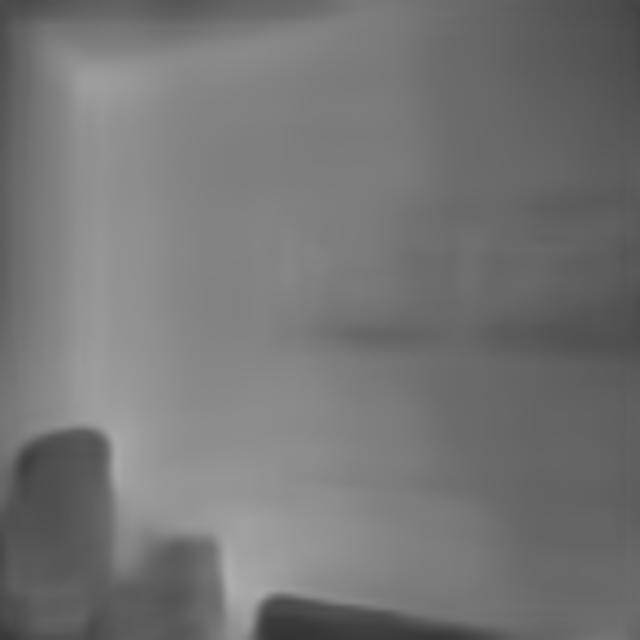
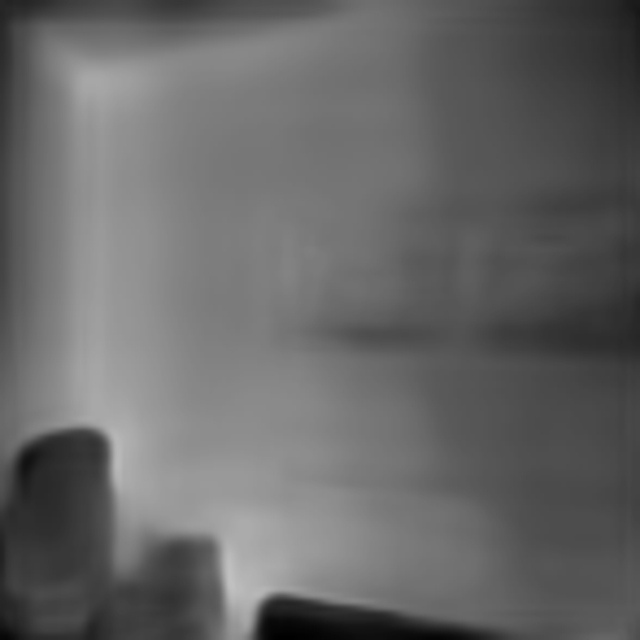
Removed linear sum coefficient from system. Cleanup of main run script. New results.

diff --git a/run.py b/run.py
@@ -43,59 +43,74 @@ if __name__ == "__main__":
     output = filename('output')
     outputmap = filename('outputmap')
 
-    fov_h = 90  # 60.0
+    # config values
+    run_depth_prediction = False
+    reconstruct_sphere = False
+    reconstruct_in = normalized
+    fov_h = 89.99  # 60.0
     fov = (90, 90)
     crop_size = 640
 
-    angles = [(0, 0), (0, 90), (0, 180), (0, 270), (90, 0), (-90, 0)]
+    angles = [(0, 0), (0, 90), (0, 180), (0, 270)]  # , (90, 0), (-90, 0)]
     # phi = vertical angle, theta = horizontal angle
     depth_values = []
+    img_size = 640
     for i, (phi, theta) in enumerate(angles):
-        print('Cropping at %s, %s' % (theta, phi))
+        if(run_depth_prediction):
+            print('Cropping at %s, %s' % (theta, phi))
 
-        alpha, beta, gamma = np.radians([0, phi, -theta])
+            alpha, beta, gamma = np.radians([0, phi, -theta])
 
-        rotateSphere(image, alpha, beta, gamma, writeToFile=rotated(i))
-        print('Saving %s' % rotated(i))
+            rotateSphere(image, alpha, beta, gamma, writeToFile=rotated(i))
+            print('Saving %s' % rotated(i))
 
-        if equirectangularToPerspective(
-                rotated(i), fov_h, crop_size, crop_size, crop(i)):
-            print('Saving %s' % crop(i))
-        else:
-            print('ERROR projecting perspective image.')
+            if equirectangularToPerspective(
+                    rotated(i), fov_h, crop_size, crop_size, crop(i)):
+                print('Saving %s' % crop(i))
+            else:
+                print('ERROR projecting perspective image.')
 
-        print("%s - Begin depth prediction..." % i)
-        if(depthPrediction(crop(i), depth(i))):
-            print("%s - Depth prediction OK." % i)
-        else:
-            print("%s - ERROR during depth prediction." % i)
+            print("%s - Begin depth prediction..." % i)
+            if(depthPrediction(crop(i), depth(i))):
+                print("%s - Depth prediction OK." % i)
+            else:
+                print("%s - ERROR during depth prediction." % i)
+
         depth_values.append(cv2.imread(depth(i), 0).astype(np.float32) / 255.0)
 
-        s = cube_map_depth_weights(np.array(depth_values))
-        print(s)
-        new_depths = []
-        for i in range(len(s) / 2):
-            new_img = (depth_values[i] * s[2 * i]) + s[2 * i + 1]
-            new_depths.append(new_img)
-        new_depths = np.array(new_depths)
-        maxValue = np.amax(new_depths)
-        minValue = np.amin(new_depths)
-        print("Max: %s, Min: %s" % (maxValue, minValue))
-        for i in range(len(s) / 2):
-            cv2.imwrite(normalized(i),
-                        mapImage(
-                            lambda p: (p - minValue) /
-                (maxValue - minValue) * 255,
-                new_depths[i]))
+    # Run solving algorithm
+    s = cube_map_depth_weights(np.array(depth_values), exclude_poles=True)
+    print(s)
+    new_depths = []
+    for i in range(len(s)):
+        new_img = (depth_values[i] * s[i])
+        new_depths.append(new_img)
+    new_depths = np.array(new_depths)
+    maxValue = np.amax(new_depths)
+    minValue = np.amin(new_depths)
+    print("Max: %s, Min: %s" % (maxValue, minValue))
+    for i in range(len(s)):
+        normalized_image = mapImage(
+            lambda p: (p - minValue) /
+            (maxValue - minValue) * 255,
+            new_depths[i])
+        cv2.imwrite(normalized(i), normalized_image)
 
-    for i, (phi, theta) in enumerate(angles):
+    # Reconstruct sphere
+    if(reconstruct_sphere):
+        reconstructed = np.zeros((1138, 2276))
+        for i, (phi, theta) in enumerate(angles):
 
-        alpha, beta, gamma = np.radians([0, phi, -theta])
+            alpha, beta, gamma = np.radians([0, phi, -theta])
 
-        if perspectiveToEquirectangular(normalized(i), rotated(i), fov_h, crop_size, crop_size, reprojected(i), validmap(i)):
-            print('Reprojecting %s...' % i)
-        else:
-            print('ERROR projecting back to equirectangular.')
+            if perspectiveToEquirectangular(reconstruct_in(i), rotated(i), fov_h, crop_size, crop_size, reprojected(i), validmap(i)):
+                print('Reprojecting %s...' % i)
+            else:
+                print('ERROR projecting back to equirectangular.')
 
-        rotateBack(reprojected(i), alpha, beta, gamma, writeToFile=output(i))
-        rotateBack(validmap(i), alpha, beta, gamma, writeToFile=outputmap(i))
+            rotateBack(reprojected(i), alpha, beta,
+                       gamma, writeToFile=output(i))
+            rotateBack(validmap(i), alpha, beta,
+                       gamma, writeToFile=outputmap(i))
+            reconstructed += cv2.imread(output(i), 0)
+        cv2.imwrite('reconstruction.jpg', reconstructed)

diff --git a/weights/cubeMap.py b/weights/cubeMap.py
@@ -19,7 +19,7 @@ def cube_map_depth_weights(images, exclude_poles=False):
                   *------*
     """
     num_images = (4 if exclude_poles else 6)
-    num_coefficients = 2 * num_images
+    num_coefficients = num_images
 
     assert(images.shape[0] == num_images)
     assert(images.shape[1] == images.shape[2])
@@ -66,12 +66,10 @@ def cube_map_depth_weights(images, exclude_poles=False):
             pixel_a = images.item(plane_a, *direction_a(scan))
             pixel_b = images.item(plane_b, *direction_b(scan))
             equation = np.zeros(num_coefficients)
-            equation.itemset(2 * plane_a, pixel_a)
-            equation.itemset(2 * plane_a + 1, 1)
-            equation.itemset(2 * plane_b, -pixel_b)
-            equation.itemset(2 * plane_b + 1, -1)
+            equation.itemset(plane_a, pixel_a)
+            equation.itemset(plane_b, -pixel_b)
             system.append(equation)
     # Find the minimum coefficients to transform images
     system = np.array(system)
     u, s, v = np.linalg.svd(system)
-    return v[10]
+    return v[-1]

diff --git a/partition/matlab/warpImageFast.m b/partition/matlab/warpImageFast.m
@@ -19,5 +19,5 @@ im = im(minY:maxY,minX:maxX,:);
 for c=1:size(im,3)
     % im_warp(:,:,c) = uint8(interp2(double(im(:,:,c)), XXdense-minX+1, YYdense-minY+1,'*cubic'));
     %im_warp(:,:,c) = interp2(im(:,:,c), XXdense-minX+1, YYdense-minY+1,'*cubic');
-    im_warp(:,:,c) = interp2(im(:,:,c), XXdense-minX+1, YYdense-minY+1,'*linear');
+    im_warp(:,:,c) = interp2(im(:,:,c), XXdense-minX+1, YYdense-minY+1,'linear');
 end

diff --git a/partition/callMatlabScript.py b/partition/callMatlabScript.py
@@ -5,6 +5,6 @@ def callMatlabScript(script, *args, **kwargs):
     path = os.path.dirname(os.path.realpath(__file__))
     new_dir = os.path.join(path, 'matlab')
     arg_list = ' '.join(map(lambda arg: str(arg), args))
-    verbose = ' > nul 2>&1'
+    verbose = ''  # ' > nul 2>&1'
     return not os.system('octave-cli --eval "cd %s; %s %s"%s' %
                          (new_dir, script, arg_list, verbose))
